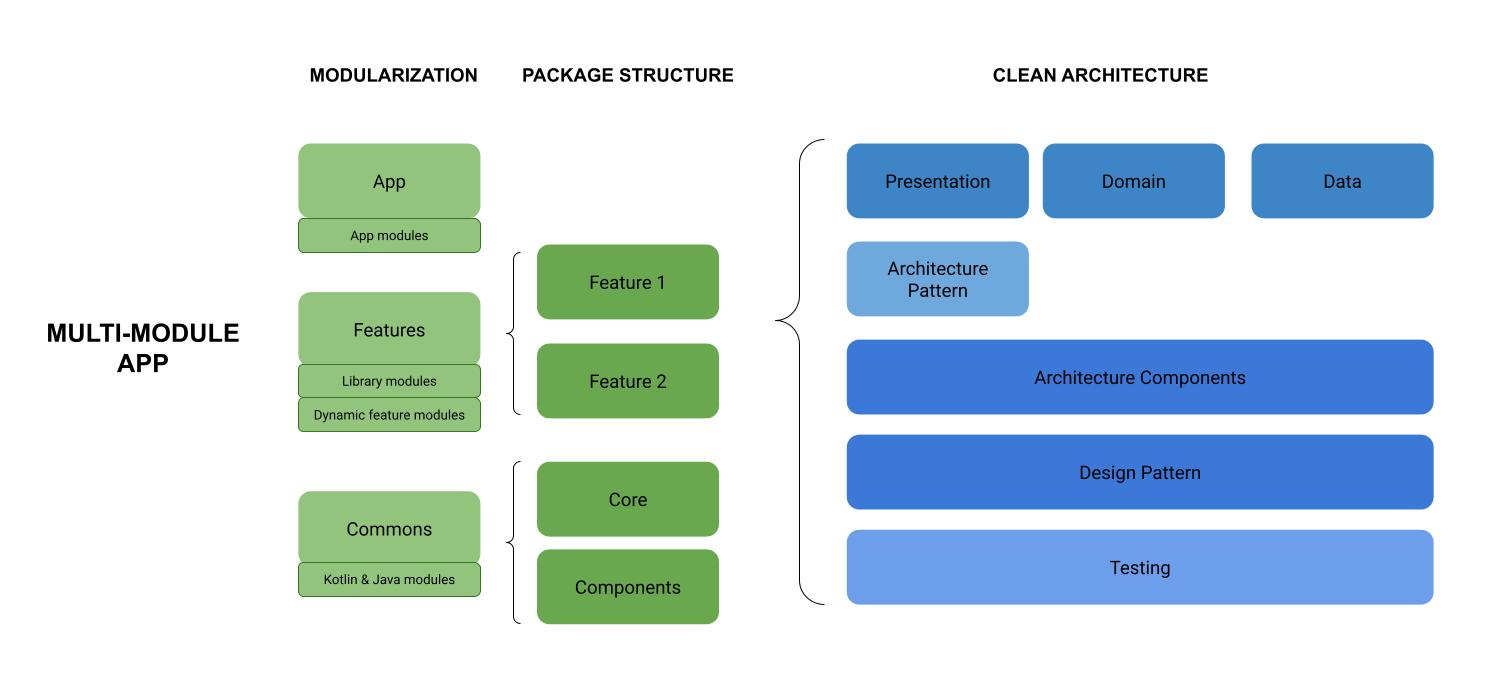
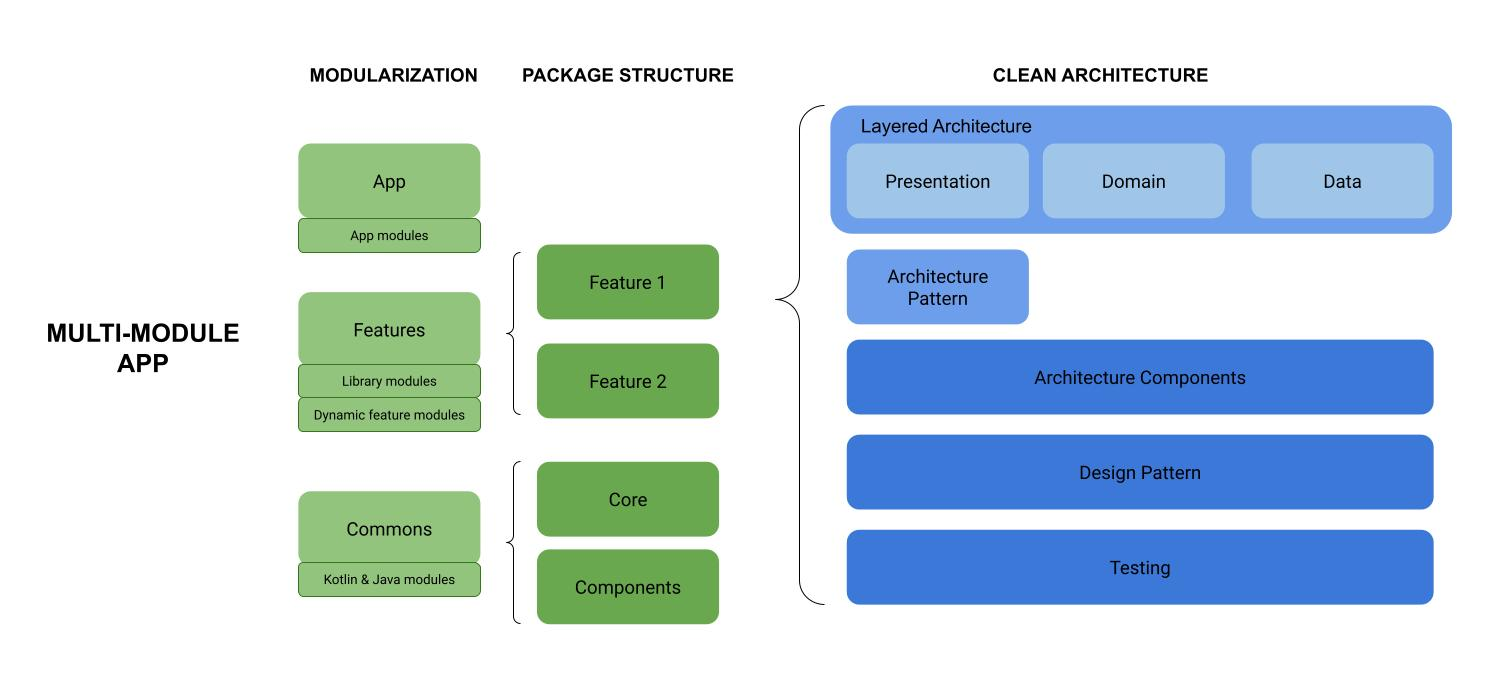
Update content of Clean architecture and image of roadmap

Changed region(s): [[0.5288, 0.1546, 0.9643, 0.4948], [0.5599, 0.7732, 0.9643, 0.8969], [0.4977, 0.433, 0.5288, 0.4639]]

diff --git a/README.md b/README.md
@@ -41,7 +41,7 @@ This contains all topics to help you find what you are looking for quickly. I ho
     * [Behavioral](https://refactoring.guru/es/design-patterns/behavioral-patterns)
         - Observer
 * 🏢 Architecture of system
-    * [Clean Arquitecture](https://blog.cleancoder.com/uncle-bob/2012/08/13/the-clean-architecture.html)
+    * [Clean Arquitecture](https://blog.cleancoder.com/uncle-bob/2012/08/13/the-clean-architecture.html)  (layered architecture)
         - Domian layer
         - Data layer
             - Patron repository
